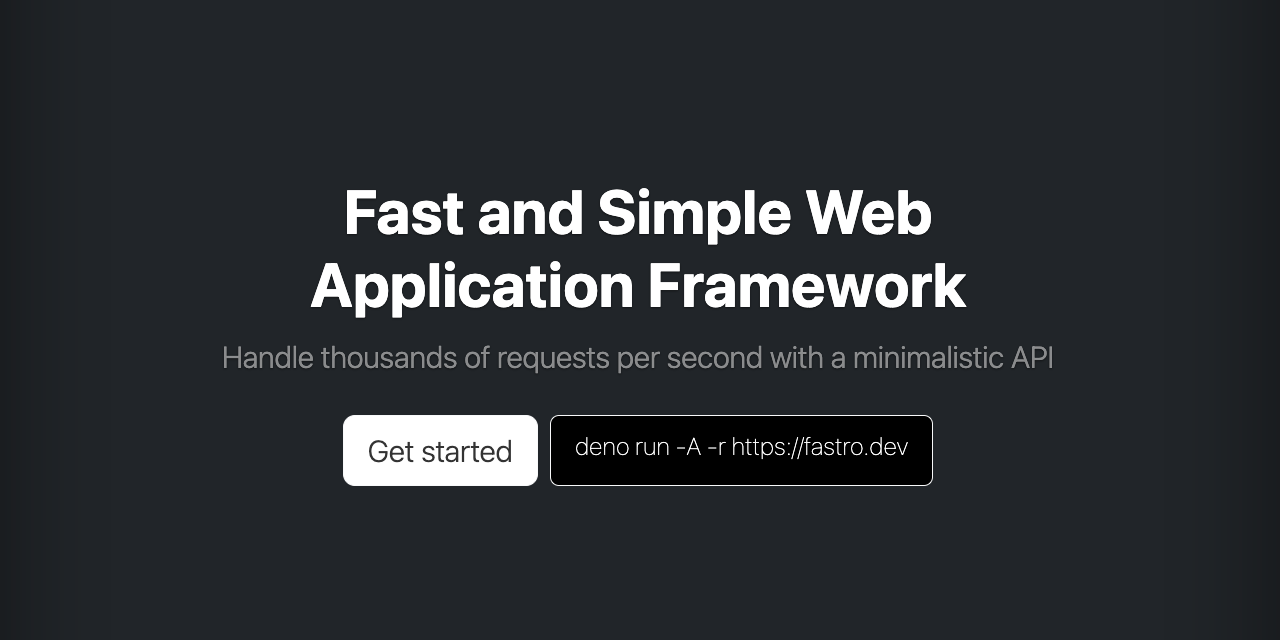
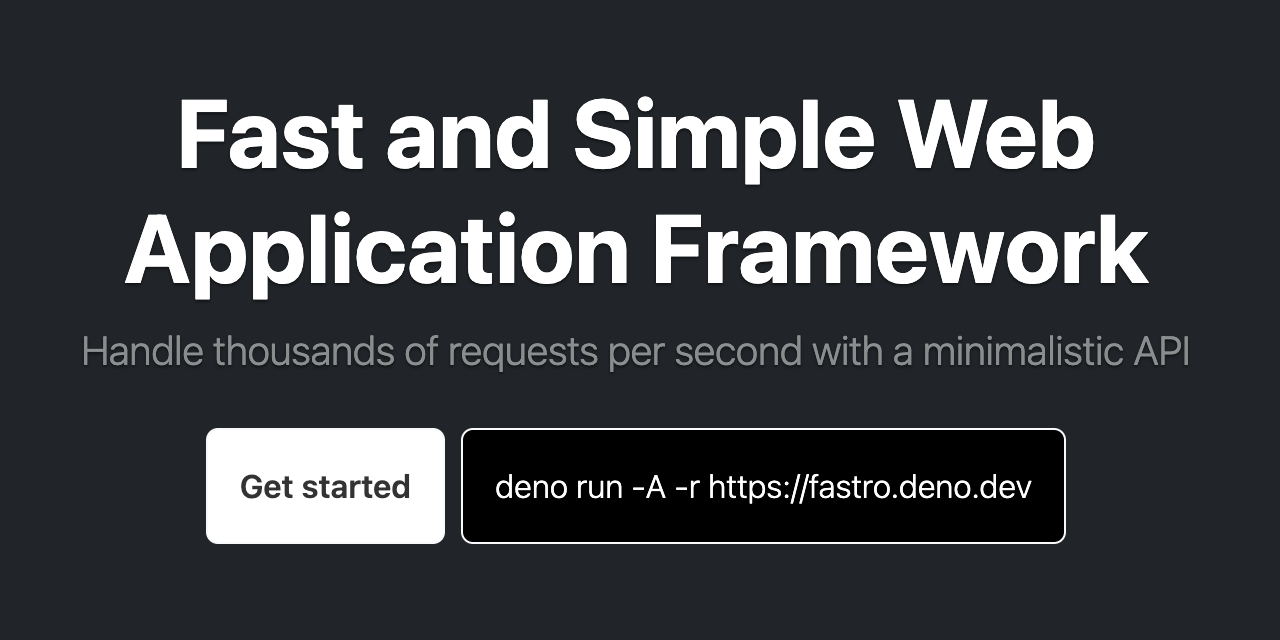
update init.ts

Changed region(s): [[0.0938, 0.1562, 0.9062, 0.5], [0.1562, 0.625, 0.8438, 0.875], [0.0625, 0.5, 0.9375, 0.5938]]

diff --git a/static/init.ts b/static/init.ts
@@ -1,4 +1,4 @@
-const version = "v0.75.10";
+const version = "v0.75.11";
 export { version };
 
 const init = async (name?: string, ver?: string) => {
@@ -44,27 +44,35 @@ const init = async (name?: string, ver?: string) => {
   Context,
   HttpRequest,
 } from "https://deno.land/x/fastro@${v}/mod.ts";
+import layout from "./layout.ts";
 import app from "./pages/app.tsx";
 
+// initiate the application
 const f = new fastro();
 
-f.get("/api", () => Response.json({ msg: "hello" }));
+// define API end point
+f.get("/api", () => Response.json({ uuid: crypto.randomUUID() }));
+
+// setup static folder with maxAge 90
 f.static("/static", { folder: "static", maxAge: 90 });
+
+// setup the page endpoint with the \`app\` component
 f.page(
   "/",
   app,
   (_req: HttpRequest, ctx: Context) => {
-    const options = {
-      status: 200,
-      props: { data: "Guest" },
-      html: { head: { title: "React Component" } },
-    };
+    const options = layout({
+      data: "World",
+      title: "Hello World",
+      description: "This is simple react component",
+    });
     return ctx.render(options);
   },
 );
 
-await f.serve();
-      
+// serves HTTP requests
+await f.serve();   
+
   `,
     );
     // github action
@@ -123,7 +131,7 @@ await f.serve();
     ]
   },
   "tasks": {
-    "start": "deno run -A -r --watch main.ts --development",
+    "start": "deno run -A --watch main.ts --development",
     "hydrate": "deno run -A main.ts --hydrate"
   }
 }`,
@@ -150,20 +158,35 @@ It will reload your browser automatically if changes occur.
 import React, { useState } from "https://esm.sh/react@18.2.0?dev";
 
 export default function App(props: { data: string }) {
+  const [data, setD] = useState({
+    uuid: "e90d45df-4132-41ad-aec8-e0e19f7647a9",
+  });
+
+  const handleClick = async () => {
+    const res = await fetch("/api");
+    setD(await res.json());
+  };
+
   return (
     <>
-      <h1>Hello {props.data}</h1>
-      <Counter />
+      <main className="d-flex flex-column justify-content-center align-items-center h-100">
+        <h1>Hello {props.data}</h1>
+        <p className="fw-light">
+          Click the button below to get the new UUID from the server
+        </p>
+        <div className="d-flex p-2 bd-highlight">
+          <button
+            onClick={handleClick}
+            className="me-1 p-3 btn btn-light fw-semibold bg-white align-middle"
+          >
+            GET
+          </button>
+          <div className="p-3 bg-black border border-light rounded fw-light align-middle">
+            {data.uuid}
+          </div>
+        </div>
+      </main>
     </>
-  );
-}
-
-function Counter() {
-  const [count, setCount] = useState(0);
-  return (
-    <button onClick={() => setCount(count + 1)}>
-      You clicked me {count} times
-    </button>
   );
 }
 
@@ -174,6 +197,198 @@ function Counter() {
     await Deno.writeTextFile(
       ".gitignore",
       `hydrate`,
+    );
+
+    // css
+    await Deno.mkdir("static", { recursive: true });
+    await Deno.writeTextFile(
+      "static/app.css",
+      `/*
+* Globals
+*/
+
+
+/* Custom default button */
+.btn-light,
+.btn-light:hover,
+.btn-light:focus {
+  color: #333;
+  text-shadow: none; /* Prevent inheritance from \`body\` */
+}
+
+
+/*
+* Base structure
+*/
+
+body {
+  text-shadow: 0 .05rem .1rem rgba(0, 0, 0, .5);
+  box-shadow: inset 0 0 5rem rgba(0, 0, 0, .5);
+}
+
+.cover-container {
+  max-width: 42em;
+}
+
+
+/*
+* Header
+*/
+
+.nav-masthead .nav-link {
+  color: rgba(255, 255, 255, .5);
+  border-bottom: .25rem solid transparent;
+}
+
+.nav-masthead .nav-link:hover,
+.nav-masthead .nav-link:focus {
+  border-bottom-color: rgba(255, 255, 255, .25);
+}
+
+.nav-masthead .nav-link + .nav-link {
+  margin-left: 1rem;
+}
+
+.nav-masthead .active {
+  color: #fff;
+  border-bottom-color: #fff;
+}
+
+.bd-placeholder-img {
+    font-size: 1.125rem;
+    text-anchor: middle;
+    -webkit-user-select: none;
+    -moz-user-select: none;
+    user-select: none;
+}
+
+@media (min-width: 768px) {
+    .bd-placeholder-img-lg {
+        font-size: 3.5rem;
+    }
+}
+
+.b-example-divider {
+    width: 100%;
+    height: 3rem;
+    background-color: rgba(0, 0, 0, .1);
+    border: solid rgba(0, 0, 0, .15);
+    border-width: 1px 0;
+    box-shadow: inset 0 .5em 1.5em rgba(0, 0, 0, .1), inset 0 .125em .5em rgba(0, 0, 0, .15);
+}
+
+.b-example-vr {
+    flex-shrink: 0;
+    width: 1.5rem;
+    height: 100vh;
+}
+
+.bi {
+    vertical-align: -.125em;
+    fill: currentColor;
+}
+
+.nav-scroller {
+    position: relative;
+    z-index: 2;
+    height: 2.75rem;
+    overflow-y: hidden;
+}
+
+.nav-scroller .nav {
+    display: flex;
+    flex-wrap: nowrap;
+    padding-bottom: 1rem;
+    margin-top: -1px;
+    overflow-x: auto;
+    text-align: center;
+    white-space: nowrap;
+    -webkit-overflow-scrolling: touch;
+}
+
+.btn-bd-primary {
+    --bd-violet-bg: #712cf9;
+    --bd-violet-rgb: 112.520718, 44.062154, 249.437846;
+
+    --bs-btn-font-weight: 600;
+    --bs-btn-color: var(--bs-white);
+    --bs-btn-bg: var(--bd-violet-bg);
+    --bs-btn-border-color: var(--bd-violet-bg);
+    --bs-btn-hover-color: var(--bs-white);
+    --bs-btn-hover-bg: #6528e0;
+    --bs-btn-hover-border-color: #6528e0;
+    --bs-btn-focus-shadow-rgb: var(--bd-violet-rgb);
+    --bs-btn-active-color: var(--bs-btn-hover-color);
+    --bs-btn-active-bg: #5a23c8;
+    --bs-btn-active-border-color: #5a23c8;
+}
+
+.bd-mode-toggle {
+    z-index: 1500;
+}
+
+`,
+    );
+
+    // layout
+    await Deno.writeTextFile(
+      "layout.ts",
+      `import { RenderOptions } from "https://deno.land/x/fastro@${v}/mod.ts";
+
+export default function (
+  props: { data: string; title: string; description: string },
+) {
+  return {
+    props: { data: props.data },
+    cache: false,
+    html: {
+      class: "h-100",
+      head: {
+        title: props.title,
+        descriptions: props.description,
+        meta: [
+          { charset: "utf-8" },
+          {
+            name: "viewport",
+            content: "width=device-width, initial-scale=1.0",
+          },
+          {
+            name: "description",
+            content: "Fast & Simple Web Application Framework",
+          },
+          {
+            property: "og:image",
+            content: "https://fastro.dev/static/image.png",
+          },
+        ],
+        link: [{
+          href:
+            "https://cdn.jsdelivr.net/npm/bootstrap@5.3.0-alpha1/dist/css/bootstrap.min.css",
+          rel: "stylesheet",
+          integrity:
+            "sha384-GLhlTQ8iRABdZLl6O3oVMWSktQOp6b7In1Zl3/Jr59b6EGGoI1aFkw7cmDA6j6gD",
+          crossorigin: "anonymous",
+        }, {
+          href: "/static/app.css",
+          rel: "stylesheet",
+        }],
+        script: [{
+          src:
+            "https://cdn.jsdelivr.net/npm/bootstrap@5.3.0-alpha1/dist/js/bootstrap.bundle.min.js",
+          integrity:
+            "sha384-w76AqPfDkMBDXo30jS1Sgez6pr3x5MlQ1ZAGC+nuZB+EYdgRZgiwxhTBTkF7CXvN",
+          crossorigin: "anonymous",
+        }],
+      },
+      body: {
+        class: "h-100 text-bg-dark",
+        rootClass: "cover-container mx-auto h-100",
+        script: [],
+      },
+    },
+  } as RenderOptions;
+}
+`,
     );
   } catch (error) {
     throw error;
